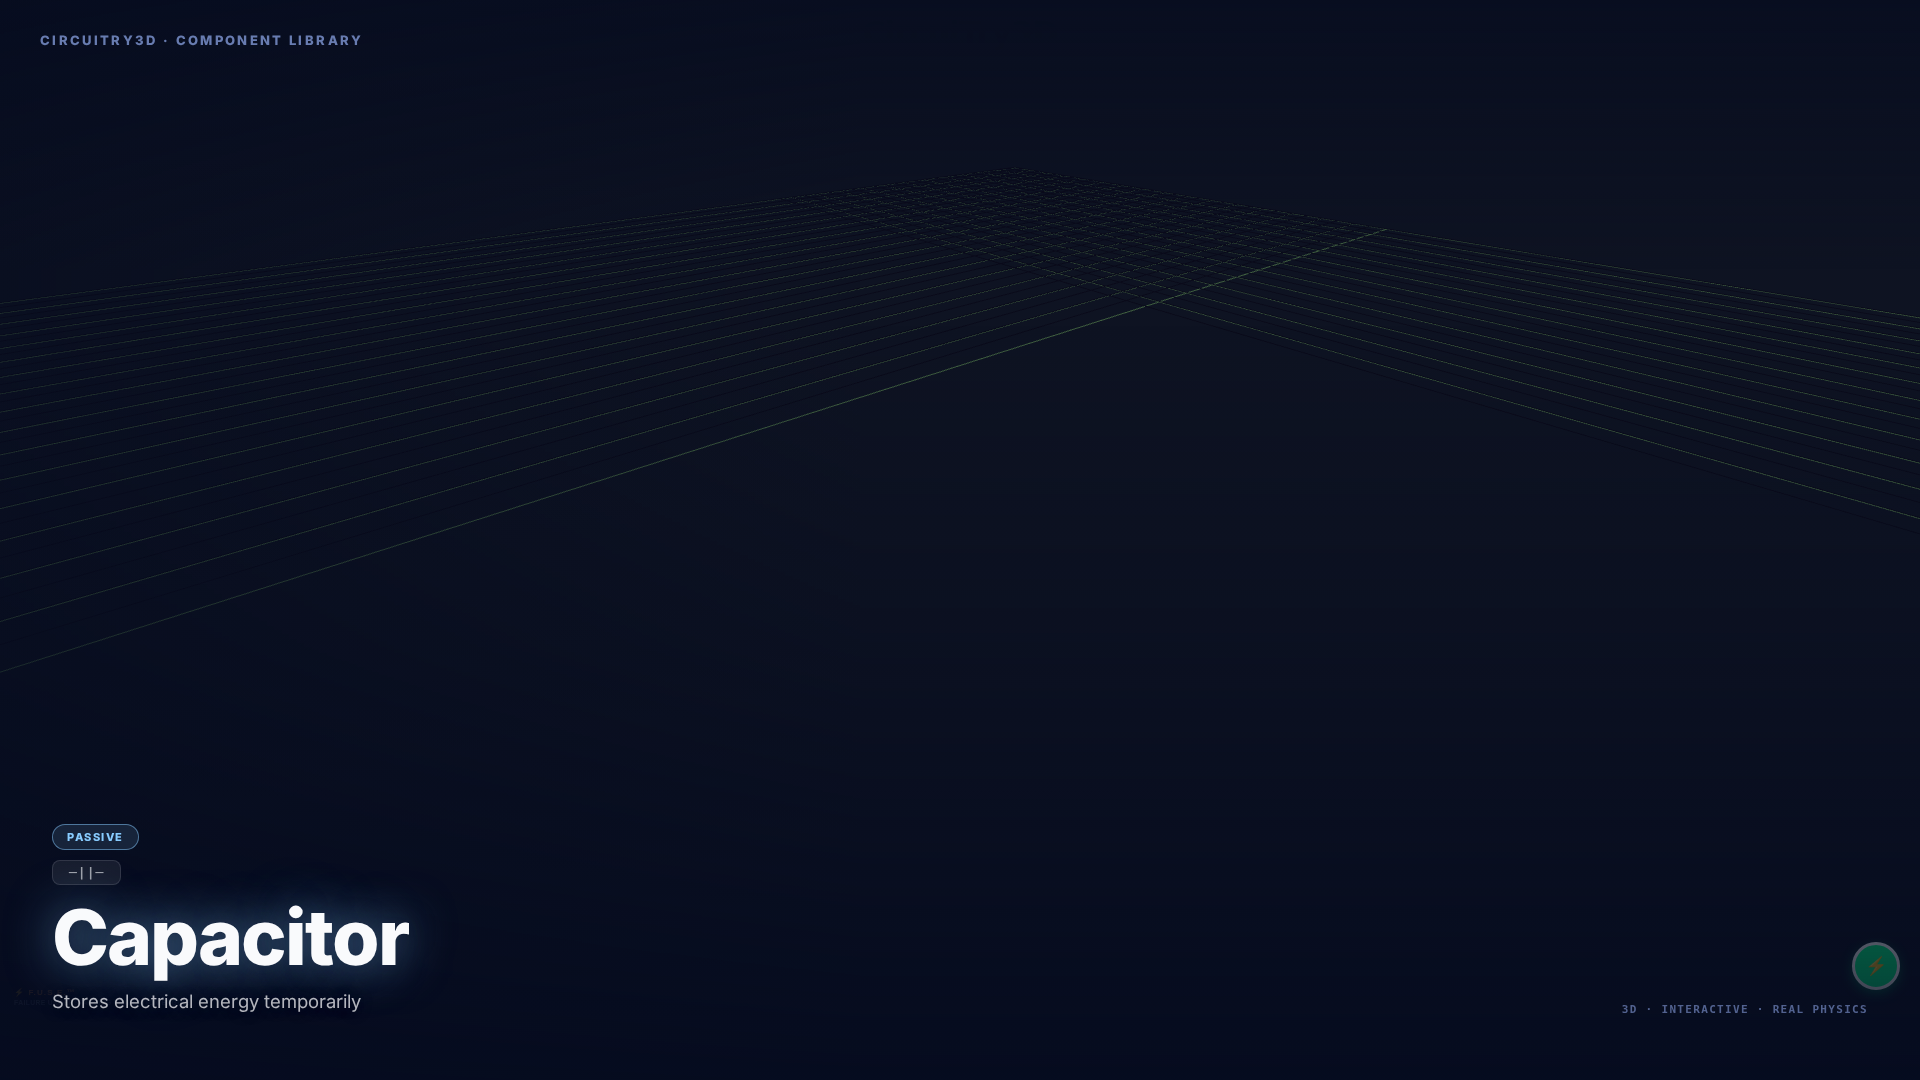
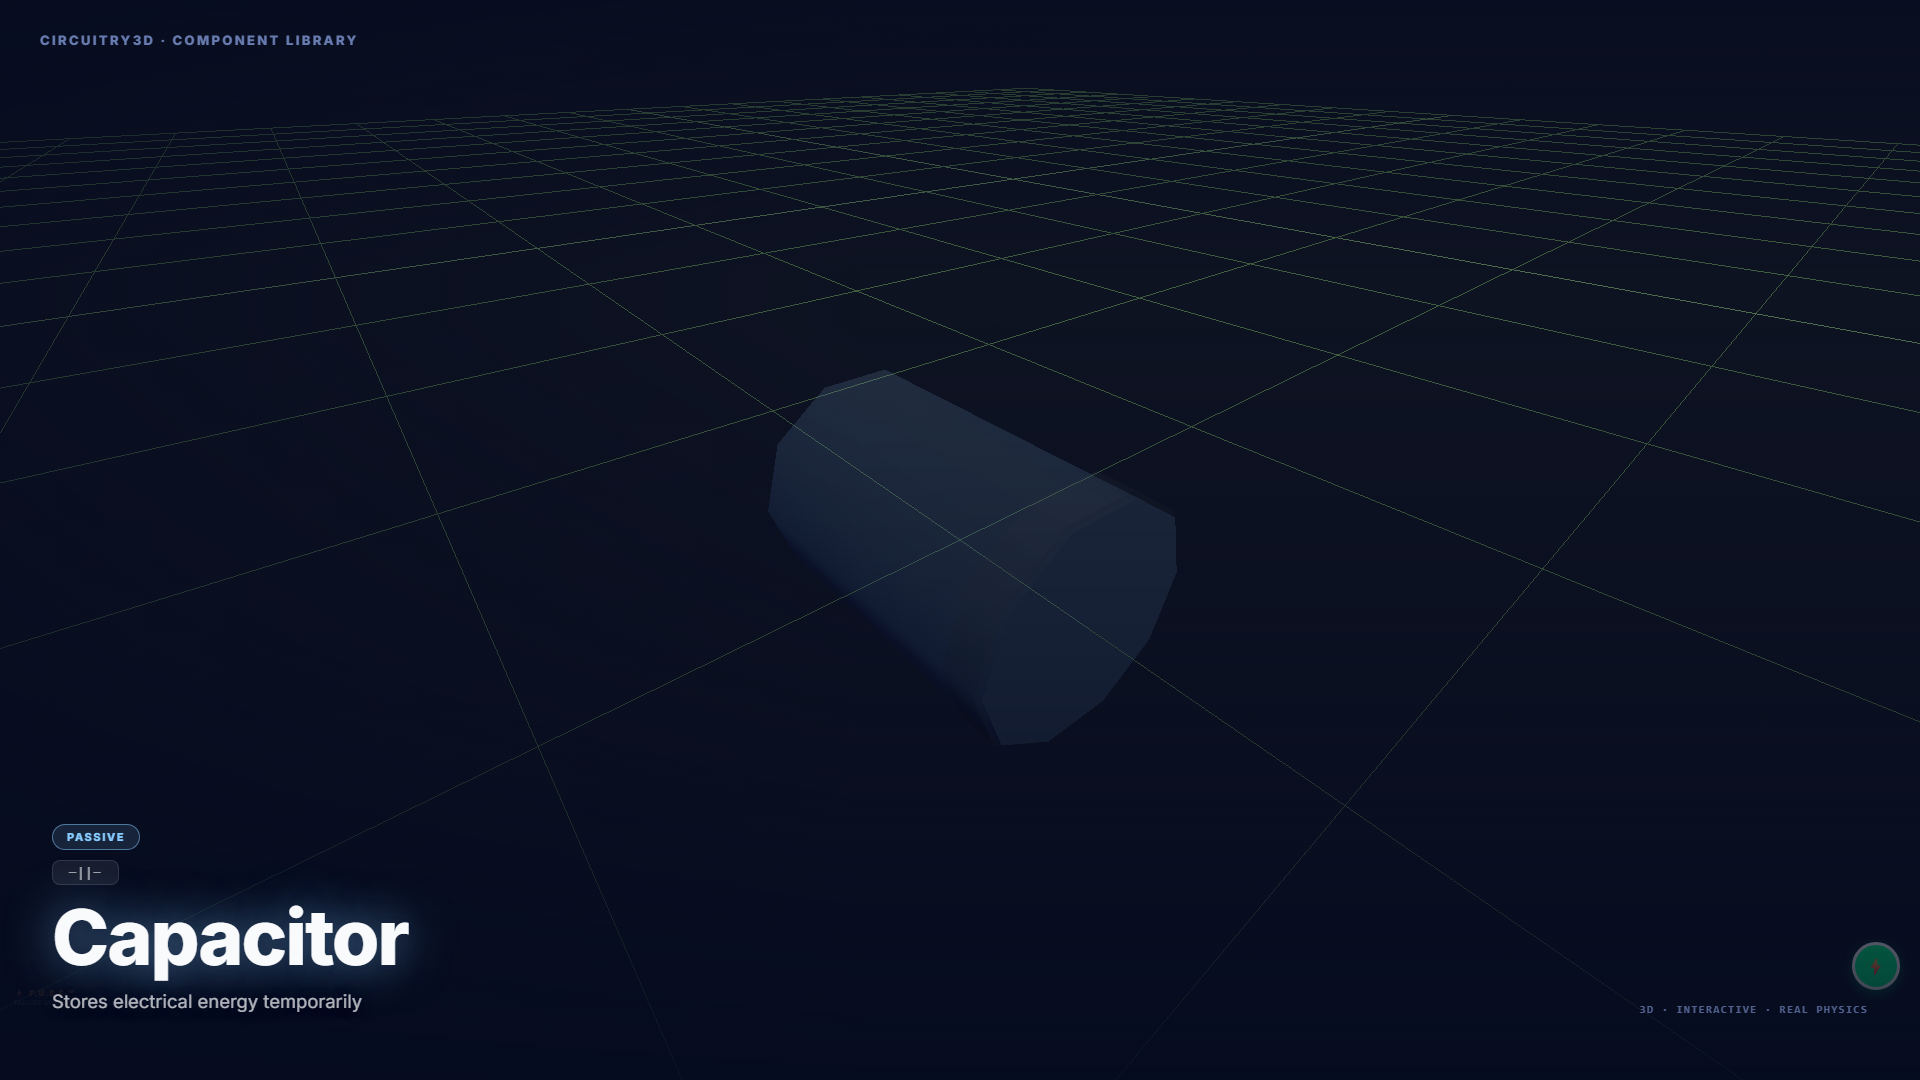
fix(showcase): the component shots show the component again
Every image in public/component-shots was wrong, and the shots ship on the
phone — promo10.html is in the Android assets and is the only thing that uses
them. Four separate faults, each enough on its own:

1. The script could not start. It asked Playwright for a pinned headless shell
   (1194); this machine has chromium 1228 and 1243. It now resolves the newest
   full chrome actually installed, the way tools/probe already does.

2. Nothing it asked for ever happened. It drove the builder by posting
   `builder:invoke-action` / `builder:add-component` — but legacy.html only
   registers that listener when it is running inside an iframe:

       if (window.parent && window.parent !== window) {
           window.addEventListener('message', handleBuilderBridgeMessage);
       }

   The script opens it top-level, so there was no parent, no listener, and
   every clear / add / fit went nowhere. postMessage cannot fail, so it failed
   silently for months. It now calls the page's functions directly.

3. It cleared before there was anything to clear. `_builderReady` means the
   scene exists, not that the starter circuit has landed; clearing first just
   meant the demo circuit arrived afterwards and got photographed instead.

4. The bench walks off. After 45s without input the parts stand up and clock
   out, and the camera starts its idle orbit after 6s — and a capture run is
   minutes of zero input. That is most of what "blank" actually was.
[…]

diff --git a/scripts/capture-component-showcase.js b/scripts/capture-component-showcase.js
@@ -24,12 +24,55 @@
 
 import { chromium } from 'playwright';
 import { writeFile, mkdir } from 'fs/promises';
+import { existsSync, readdirSync } from 'fs';
 import { dirname, join } from 'path';
 import { fileURLToPath } from 'url';
 
 const __filename = fileURLToPath(import.meta.url);
 const __dirname  = dirname(__filename);
 const ROOT       = join(__dirname, '..');
+
+/**
+ * The browser this machine actually has, rather than the one this copy of
+ * Playwright would like.
+ *
+ * The bundled Playwright asks for a pinned revision of the headless shell —
+ * 1194 here — and refuses to start if it is missing, which it was: the machine
+ * carries chromium 1228 and 1243, both perfectly capable of taking the shot.
+ * That is why this script stopped producing anything at all. tools/probe runs
+ * full chrome by explicit path for the same reason; do the same, and pick the
+ * newest build present so an install of a newer one does not break it again.
+ *
+ * Returns null when nothing is found, which lets Playwright try its own way
+ * and report its own (clear) error.
+ */
+function resolveChrome() {
+  const roots = [
+    process.env.PLAYWRIGHT_BROWSERS_PATH,
+    process.env.LOCALAPPDATA && join(process.env.LOCALAPPDATA, 'ms-playwright'),
+    process.env.HOME && join(process.env.HOME, '.cache', 'ms-playwright'),
+  ].filter(Boolean);
+
+  const found = [];
+  for (const root of roots) {
+    if (!existsSync(root)) continue;
+    for (const entry of readdirSync(root)) {
+      const rev = /^chromium-(\d+)$/.exec(entry);
+      if (!rev) continue;                       // full chrome only, not the shell
+      for (const rel of [
+        ['chrome-win64', 'chrome.exe'],
+        ['chrome-win', 'chrome.exe'],
+        ['chrome-linux', 'chrome'],
+        ['chrome-mac', 'Chromium.app', 'Contents', 'MacOS', 'Chromium'],
+      ]) {
+        const exe = join(root, entry, ...rel);
+        if (existsSync(exe)) found.push({ rev: Number(rev[1]), exe });
+      }
+    }
+  }
+  found.sort((a, b) => b.rev - a.rev);
+  return found.length ? found[0].exe : null;
+}
 
 // ── CLI flags ────────────────────────────────────────────────────────────────
 const ARGS      = process.argv.slice(2);
@@ -82,30 +125,220 @@ const COMPONENTS = [
 
 // ── Helpers ───────────────────────────────────────────────────────────────────
 
-async function sendAction(page, action, data = {}) {
-  await page.evaluate(({ action, data }) => {
-    window.postMessage({ type: 'builder:invoke-action', payload: { action, data } }, '*');
-  }, { action, data });
+/**
+ * Drive the builder by calling its functions, not by posting to it.
+ *
+ * This used to postMessage `builder:invoke-action` / `builder:add-component`,
+ * the same bridge the React host uses. It cannot work here, and that is why
+ * every shot in public/component-shots was wrong. legacy.html only registers
+ * the bridge listener when it is running INSIDE an iframe:
+ *
+ *     if (window.parent && window.parent !== window) {
+ *         window.addEventListener('message', handleBuilderBridgeMessage);
+ *     }
+ *
+ * This script opens legacy.html top-level, so there is no parent, the listener
+ * is never attached, and every clear / add / fit went into the void — silently,
+ * because postMessage cannot fail. What got captured was whatever the page
+ * booted with: the four-part demo circuit, or nothing at all.
+ *
+ * The functions are plain top-level declarations in that page's script, so
+ * page.evaluate reaches them directly. That also gives us a real failure when
+ * one goes missing, instead of a blank picture.
+ */
+async function callInBuilder(page, fn, label) {
+  const result = await page.evaluate(fn);
+  if (result && result.error) {
+    throw new Error(`${label} failed in the builder: ${result.error}`);
+  }
+  return result;
+}
+
+const ACTIONS = {
+  'clear-workspace': () => {
+    try { clearAll(); return { ok: true }; } catch (e) { return { error: String(e.message || e) }; }
+  },
+  'fit-screen': () => {
+    try { fitToScreen(); return { ok: true }; } catch (e) { return { error: String(e.message || e) }; }
+  },
+  /**
+   * Frame the one part on the bench, and take the control ring off it.
+   *
+   * fitToScreen() floors the camera at distance 6, which is right for a whole
+   * circuit and far too far for a single component — a battery is about 1.5
+   * units across, so it fitted to a speck. The old script then zoomed OUT
+   * twice on top of that. Frame from the part's own bounding box instead.
+   *
+   * A freshly added part is also the active one, so it wears the selection
+   * ring. That belongs in the app, not in a library photograph.
+   */
+  'frame-part': () => {
+    try {
+      const part = components[0];
+      if (!part || !part.mesh) return { error: 'no part on the bench to frame' };
+
+      // Measure the part you can SEE. Every component carries an invisible
+      // selection box sized for raycasting and connection-point spheres out at
+      // the ends of its leads; expandByObject swallows both, so a resistor
+      // measured ~2.5 units instead of ~1.2 and the camera parked twice as far
+      // back as it needed to. That is why these read as specks in a big grid.
+      const box = new THREE.Box3();
+      part.mesh.updateWorldMatrix(true, true);
+      part.mesh.traverse((o) => {
+        if (!o.isMesh) return;
+        const ud = o.userData || {};
+        if (ud.isSelectionBox || ud.isConnectionPoint || ud.wireHitSphere) return;
+        box.expandByObject(o);
+      });
+      if (box.isEmpty()) box.expandByObject(part.mesh);
+
+      const center = box.getCenter(new THREE.Vector3());
+      const size = box.getSize(new THREE.Vector3());
+      const maxDim = Math.max(size.x, size.y, size.z) || 1;
+
+      cameraTarget.copy(center);
+      // 1.5x the part fills the frame without clipping its leads, and the floor
+      // stops a tiny part (a ground symbol) from swelling to fill the screen.
+      cameraDistance = Math.max(1.8, maxDim * 1.5);
+      updateCameraPosition();
+      return {
+        ok: true,
+        maxDim: Number(maxDim.toFixed(2)),
+        distance: Number(cameraDistance.toFixed(2)),
+      };
+    } catch (e) { return { error: String(e.message || e) }; }
+  },
+
+  /**
+   * Strip the editing furniture, immediately before the shutter.
+   *
+   * A newly added part is the active one, so it wears the selector ring, and
+   * its terminals carry connection-point blobs for wiring. Both are editor
+   * affordances and neither belongs in a photograph of the part. This runs
+   * last, after the overlay is in, because clearing it earlier loses the race:
+   * the part gets made active again while the camera is still settling, and
+   * the ring turns up in the shot anyway.
+   */
+  'clean-for-shot': () => {
+    try {
+      // Tell the page a human just touched it.
+      //
+      // The workspace has two idle behaviours on a timer since `_lastUserInputAt`:
+      // it starts a slow turntable orbit after 6s, and after 45s the components
+      // stand up and walk off the bench to clock out. A capture run is minutes
+      // of zero input, so by a few components in, the parts were strolling away
+      // and the camera was drifting — which is most of what "blank captures"
+      // actually were. Reset the clock before every shot.
+      _lastUserInputAt = performance.now();
+
+      selectedComponent = null;
+      activeComponent = null;
+      if (typeof selectedComponents !== 'undefined' && selectedComponents.clear) {
+        selectedComponents.clear();
+      }
+      if (typeof selectionRing !== 'undefined' && selectionRing) {
+        selectionRing.visible = false;
+      }
+      // The green ring on the grid is the snap indicator — it marks where the
+      // NEXT part would drop, so it hangs about after an add and reads as if it
+      // belonged to the component being photographed. It is not the selection
+      // ring, which is why clearing the selection never got rid of it.
+      if (typeof hideSnapIndicator === 'function') {
+        hideSnapIndicator();
+      }
+      let hidden = 0;
+      components.forEach((part) => {
+        if (!part || !part.mesh) return;
+        part.mesh.traverse((o) => {
+          if (o.userData && o.userData.isConnectionPoint && o.visible) {
+            o.visible = false;
+            hidden += 1;
+          }
+        });
+      });
+      return {
+        ok: true,
+        hiddenConnectionPoints: hidden,
+        activeAfter: !!activeComponent,
+        ringVisible: typeof selectionRing !== 'undefined' && selectionRing ? selectionRing.visible : null,
+      };
+    } catch (e) { return { error: String(e.message || e) }; }
+  },
+};
+
+async function sendAction(page, action) {
+  const fn = ACTIONS[action];
+  if (!fn) throw new Error(`No builder action mapped for "${action}"`);
+  await callInBuilder(page, fn, action);
 }
 
 async function addComponent(page, componentType) {
-  await page.evaluate((componentType) => {
-    window.postMessage({ type: 'builder:add-component', payload: { componentType } }, '*');
+  const res = await page.evaluate((type) => {
+    try {
+      addComponent(type, 0, null);
+      return { ok: true, count: typeof components !== 'undefined' ? components.length : null };
+    } catch (e) {
+      return { error: String(e.message || e) };
+    }
   }, componentType);
+  if (res && res.error) {
+    throw new Error(`addComponent("${componentType}") failed: ${res.error}`);
+  }
+  return res;
+}
+
+/** How many parts are on the bench right now. */
+async function componentCount(page) {
+  return page.evaluate(() => (typeof components !== 'undefined' ? components.length : -1));
 }
 
 /**
- * Open legacy.html and wait for the 3-D canvas to be ready.
+ * Wait until the bench stops changing on its own.
+ *
+ * `_builderReady` means the scene exists, not that the page has finished
+ * putting its starter circuit on the bench — that lands a moment later. Clear
+ * before it arrives and it simply reappears, which is the same blank-shot
+ * failure wearing a different hat. Poll until the count holds still.
+ */
+async function waitForBenchToSettle(page, timeoutMs = 20_000) {
+  const started = Date.now();
+  let last = await componentCount(page);
+  let stableSince = Date.now();
+  while (Date.now() - started < timeoutMs) {
+    await page.waitForTimeout(250);
+    const now = await componentCount(page);
+    if (now !== last) {
+      last = now;
+      stableSince = Date.now();
+      continue;
+    }
+    if (Date.now() - stableSince >= 1000) return last;
+  }
+  return last;
+}
+
+/**
+ * Open legacy.html and wait for the 3-D scene to actually exist.
+ *
+ * `_builderReady` is the page's own signal that init() finished and the Three.js
+ * scene is up — the same flag it makes the React host wait for before letting
+ * anything call addComponent(). Waiting on it beats a fixed sleep, which is a
+ * guess that gets it wrong on a slow machine and wastes time on a fast one.
  */
 async function openBuilder(page) {
   const url = `${BASE_URL}/legacy.html`;
   await page.goto(url, { waitUntil: 'networkidle', timeout: 45_000 });
   await page.waitForSelector('canvas', { timeout: 20_000 });
-  // Extra settle time for THREE.js / WebGL initialisation
-  await page.waitForTimeout(3000);
+  await page.waitForFunction(
+    () => typeof _builderReady !== 'undefined' && _builderReady === true,
+    null,
+    { timeout: 60_000 },
+  );
   // Dismiss any tutorial/splash overlay
   await page.keyboard.press('Escape').catch(() => {});
   await page.waitForTimeout(500);
+  // Let the starter circuit finish arriving before anyone clears it.
+  await waitForBenchToSettle(page);
 }
 
 /**
@@ -246,8 +479,12 @@ async function main() {
 
   await mkdir(OUTPUT_DIR, { recursive: true });
 
+  const chromePath = resolveChrome();
+  console.log(`  Browser    : ${chromePath ?? "Playwright's own"}\n`);
+
   const browser = await chromium.launch({
     headless: true,
+    ...(chromePath ? { executablePath: chromePath } : {}),
     args: [
       '--no-sandbox',
       '--disable-setuid-sandbox',
@@ -277,26 +514,40 @@ async function main() {
     const comp = components[i];
     console.log(`  [${String(i + 1).padStart(2, '0')}/${components.length}]  ${comp.label}`);
 
-    // Clear previous components
+    // Clear previous components — and prove it, because a workspace that did
+    // not clear is how the demo circuit ended up in every shot.
     await sendAction(page, 'clear-workspace');
     await page.waitForTimeout(400);
+    const left = await componentCount(page);
+    if (left !== 0) {
+      throw new Error(`Workspace did not clear before ${comp.id}: ${left} part(s) still on the bench`);
+    }
 
     // Add this component to the workspace
     await addComponent(page, comp.id);
     await page.waitForTimeout(1800);
+    const now = await componentCount(page);
+    if (now !== 1) {
+      throw new Error(`Expected exactly 1 part on the bench for ${comp.id}, found ${now}`);
+    }
 
-    // Fit it neatly to screen
-    await sendAction(page, 'fit-screen');
-    await page.waitForTimeout(800);
-
-    // Small zoom-out so the component sits centred with breathing room
-    await sendAction(page, 'zoom-out');
-    await sendAction(page, 'zoom-out');
-    await page.waitForTimeout(400);
+    // Frame the part itself, centred, with the control ring off.
+    await sendAction(page, 'frame-part');
+    await page.waitForTimeout(700);
 
     // Inject the cinematic overlay
     await injectOverlay(page, comp);
     await page.waitForTimeout(200);
+
+    // Last thing before the shutter: take the editor's furniture off the part.
+    const clean = await callInBuilder(page, ACTIONS['clean-for-shot'], 'clean-for-shot');
+    await page.waitForTimeout(250);
+    const stillRinged = await page.evaluate(
+      () => (typeof selectionRing !== 'undefined' && selectionRing ? selectionRing.visible : false),
+    );
+    if (stillRinged) {
+      console.warn(`         !  selector ring still showing on ${comp.id} (clean: ${JSON.stringify(clean)})`);
+    }
 
     // Capture the screenshot
     const png  = await page.screenshot({ type: 'png', fullPage: false });
